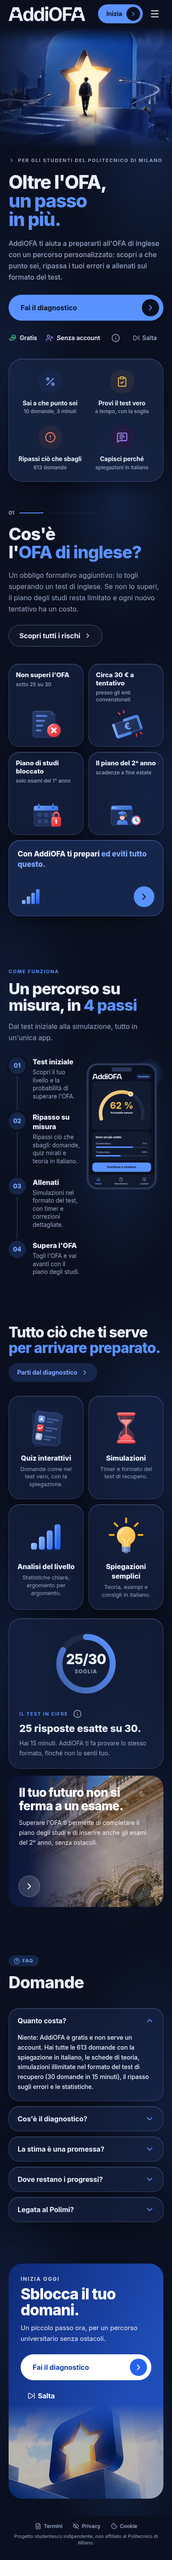
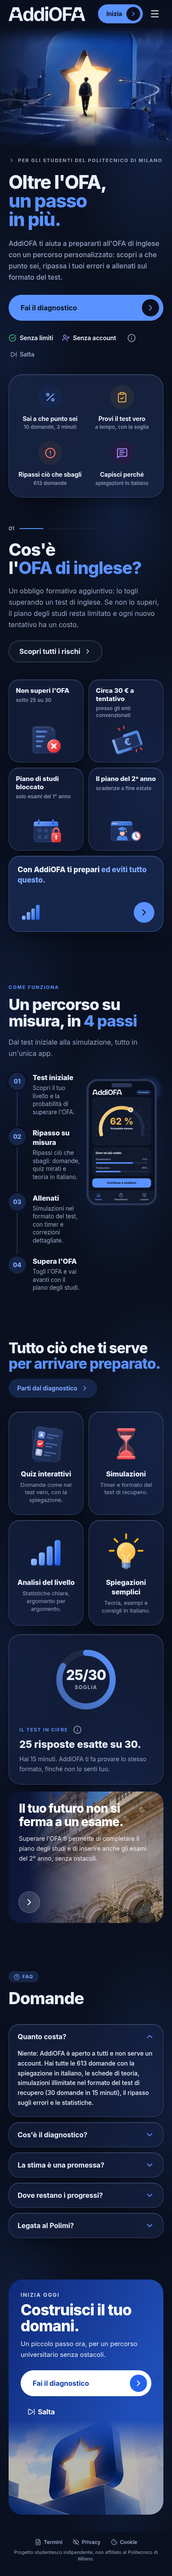
Landing dai concept; Offerta rimossa
Claude-Session: https://claude.ai/code/session_012XYGKXme8yqkj3YP8trxoj

Changed region(s): [[0.03, 0.0312, 0.96, 0.9369], [0.75, 0.9056, 0.81, 0.9369], [0.84, 0.0312, 0.87, 0.0625]]

diff --git a/app/src/lib/firebase.ts b/app/src/lib/firebase.ts
@@ -24,13 +24,20 @@ export const loginDisponibile = (): boolean => !!PROVA || (!isDemoMode() && !!FI
 /** Errore di login con un messaggio già pronto da mostrare nella pagina. */
 export class LoginError extends Error {}
 
+// Unico punto in cui si carica l'SDK. Nella build a file unico (`demo`) il confronto letterale è sempre vero e Rollup elimina i due import:
+// la pagina singola non porta con sé Firebase né indirizzi di Google (tools/check-artifact.mjs li vieta).
+const sdkApp = async () => { if (import.meta.env.VITE_MODE === 'demo') throw new LoginError('Accesso non disponibile.'); return import('firebase/app'); };
+const sdkAuth = async () => { if (import.meta.env.VITE_MODE === 'demo') throw new LoginError('Accesso non disponibile.'); return import('firebase/auth'); };
+
 let handle: Promise<Auth> | null = null;
 
 async function carica(): Promise<Auth> {
+  // il confronto letterale con VITE_MODE permette alla build a file unico (`demo`) di eliminare tutto il codice di Firebase
+  if (import.meta.env.VITE_MODE === 'demo') throw new LoginError('L\'accesso con Google non è disponibile in questa versione.');
   if (!loginDisponibile()) throw new LoginError('L\'accesso con Google non è configurato in questa versione.');
   if (!handle) {
     handle = (async () => {
-      const [{ initializeApp }, { getAuth, browserLocalPersistence, setPersistence }] = await Promise.all([import('firebase/app'), import('firebase/auth')]);
+      const [{ initializeApp }, { getAuth, browserLocalPersistence, setPersistence }] = await Promise.all([sdkApp(), sdkAuth()]);
       const auth = getAuth(initializeApp(FIREBASE_CONFIG!));
       await setPersistence(auth, browserLocalPersistence).catch(() => undefined);
       return auth;
@@ -71,7 +78,7 @@ export async function signInWithGoogle(): Promise<User | null> {
   if (PROVA) return utenteProva();
   try {
     const auth = await carica();
-    const { GoogleAuthProvider, signInWithPopup } = await import('firebase/auth');
+    const { GoogleAuthProvider, signInWithPopup } = await sdkAuth();
     return (await signInWithPopup(auth, new GoogleAuthProvider())).user;
   } catch (error) {
     const e = error as { code?: string };
@@ -84,7 +91,7 @@ export async function signInWithGoogle(): Promise<User | null> {
 export async function logout(): Promise<void> {
   if (PROVA || !handle) return;
   try {
-    const [auth, { signOut }] = await Promise.all([handle, import('firebase/auth')]);
+    const [auth, { signOut }] = await Promise.all([handle, sdkAuth()]);
     await signOut(auth);
   } catch {
     // niente: l'utente resta com'è, e lo vedrà al prossimo controllo
@@ -103,7 +110,7 @@ export function onAuthChange(callback: (user: User | null) => void): () => void 
   (async () => {
     try {
       const auth = await carica();
-      const { onAuthStateChanged } = await import('firebase/auth');
+      const { onAuthStateChanged } = await sdkAuth();
       if (annullato) return;
       smetti = onAuthStateChanged(auth, callback);
     } catch {

diff --git a/app/src/screens/landing/comune.tsx b/app/src/screens/landing/comune.tsx
@@ -108,13 +108,12 @@ export function Dato({ icona, tono = 'azione', children, etichetta, className, l
   );
 }
 
-/** I fatti del diagnostico in una riga di icone: domande, minuti, senza account (e «Gratis» solo dove si presenta il sito: `gratis`). */
-export function Fatti({ className, gratis = false }: { className?: string; gratis?: boolean }) {
+/** I fatti del diagnostico in una riga di icone: domande, minuti, senza account. */
+export function Fatti({ className }: { className?: string }) {
   return (
     <ul className={cn('flex flex-wrap gap-x-5 gap-y-2.5 text-sm font-semibold text-testo', className)} aria-label="In breve">
       <li><Dato icona="risposte" tono="azione" etichetta="Domande">{DIAGNOSTIC_QUESTIONS}</Dato></li>
       <li><Dato icona="tempo" tono="medio" etichetta="Durata">3 min</Dato></li>
-      {gratis && <li><Dato icona="gratis" tono="alto">Gratis</Dato></li>}
       <li><Dato icona="senza-account" tono="viola">Senza account</Dato></li>
     </ul>
   );

diff --git a/app/src/screens/landing/Hero.tsx b/app/src/screens/landing/Hero.tsx
@@ -30,7 +30,7 @@ export default function Hero({ onStart, onSkip, scuro }: { onStart(): void; onSk
             <BottoneContorno onClick={() => vaiA('come-funziona')} freccia className="hidden whitespace-nowrap sm:inline-flex">Come funziona</BottoneContorno>
           </div>
           <div className="mt-6 flex flex-wrap items-center gap-x-5 gap-y-2 text-sm font-semibold text-testo">
-            <span className="inline-flex items-center gap-2"><Icona nome="gratis" size={18} className="text-alto-pieno" />Gratis</span>
+            <span className="inline-flex items-center gap-2"><Icona nome="stato-incluso" size={18} className="text-alto-pieno" />Senza limiti</span>
             <span className="inline-flex items-center gap-2"><Icona nome="senza-account" size={18} className="text-viola" />Senza account</span>
             <InfoFoglio titolo="Il test e la stima">
               <div className="flex flex-col gap-2">

diff --git a/app/src/screens/landing/CtaFinale.tsx b/app/src/screens/landing/CtaFinale.tsx
@@ -16,7 +16,7 @@ export default function CtaFinale({ onStart, onSkip }: { scuro?: boolean; onStar
           </div>
           <div data-testo-ok className="relative flex min-h-[34rem] max-w-[34rem] flex-col justify-start p-7 sm:min-h-[19rem] sm:p-12">
             <p className="text-xs font-bold uppercase tracking-[0.16em] text-white/80">Inizia oggi</p>
-            <h2 id="t-fine" className="mt-2 text-[2.2rem] font-extrabold leading-[1.05] tracking-tight sm:text-5xl">Sblocca il tuo domani.</h2>
+            <h2 id="t-fine" className="mt-2 text-[2.2rem] font-extrabold leading-[1.05] tracking-tight sm:text-5xl">Costruisci il tuo domani.</h2>
             <p className="mt-3 max-w-sm text-[15px] leading-relaxed text-white/90">Un piccolo passo ora, per un percorso universitario senza ostacoli.</p>
             <div className="mt-6 flex flex-col gap-3 sm:flex-row sm:items-center">
               <button

diff --git a/app/src/screens/landing/Faq.tsx b/app/src/screens/landing/Faq.tsx
@@ -12,7 +12,7 @@ interface Voce { d: string; r: string; legale?: { sezione: LegalSection; testo: 
 const VOCI: Voce[] = [
   {
     d: 'Quanto costa?',
-    r: `Niente: AddiOFA è gratis e non serve un account. Hai tutte le ${questions.length} domande con la spiegazione in italiano, le schede di teoria, simulazioni illimitate nel formato del test di recupero (${EXAM.questions} domande in ${EXAM.minutes} minuti), il ripasso sugli errori e le statistiche.`,
+    r: `Niente: AddiOFA è aperto a tutti e non serve un account. Hai tutte le ${questions.length} domande con la spiegazione in italiano, le schede di teoria, simulazioni illimitate nel formato del test di recupero (${EXAM.questions} domande in ${EXAM.minutes} minuti), il ripasso sugli errori e le statistiche.`,
   },
   {
     d: 'Cos\'è il diagnostico?',

diff --git a/docs/lavoro/extra/NOTE-LANDING.md b/docs/lavoro/extra/NOTE-LANDING.md
@@ -26,6 +26,9 @@ Agente LANDING. Confronti concept | app in `docs/lavoro/extra/landing/` (concept
 ## Testi: tolto / sostituito
 Tolti: «12.000+ studenti», avatar, «82 %» come dato, badge degli store, «Scarica l'app», «rischio di fallimento», stemma e insegne nelle immagini (lettere sulla facciata, insegna sul palazzo), «Stessa partenza…», Pass/prezzi/lista d'attesa/«demo». Sostituiti con dati veri da `config/offer.ts`: 30 domande · 15 minuti · soglia 25/30, circa 30 € a tentativo, solo esami del 1° anno, scadenze 2026/27, 10 domande · 3 minuti, numero di domande dal file dei dati (oggi 613).
 
+## Aggiornamento del 17/10 (nuove regole di CLAUDE.md)
+Controllati i testi della landing contro le regole nuove: via l'etichetta «Gratis» (ora «Senza limiti» + «Senza account»), «Sblocca il tuo domani.» diventa «Costruisci il tuo domani.», la FAQ dice «aperto a tutti» invece di «gratis»; `Fatti` non ha più la voce «Gratis» (lo usa anche `components/Onboarding.tsx`, che non la passava). Nell'hero non c'è nessuna carta «Piano di studi bloccato» (carte: probabilità, quiz, ripasso su misura); «Piano di studi bloccato» compare solo come conseguenza dell'OFA nella sezione «Cos'è l'OFA» (concetto 41). Il pulsante principale («Fai il diagnostico», in barra, hero, passi, schede, chiusura) chiama `onStartDiagnostic` di `App`. Rifatti confronti e verifiche a 400 e 1280 px, chiaro e scuro: contrasto 0 violazioni, console 0 errori, `tsc` 0 errori.
+
 ## Verifiche fatte
 - `npx tsc --noEmit` (app): 0 errori (alla fine; durante il lavoro c'erano errori nei file degli altri agenti). `npm run build` e `npm run build:demo`: ok, «Controllo superato».
 - `python3 tools/controlla-contrasto.py --pagina "http://127.0.0.1:5255/?landing" --solo-pagina` a 400 e 1280, chiaro e scuro: 0 violazioni (all'inizio 2: «ed eviti tutto questo» 4,24 e il «72 %» 3,31, corrette). Console 0 errori/avvisi a 360, 400, 768, 1024, 1280, 1920 px, chiaro e scuro.
